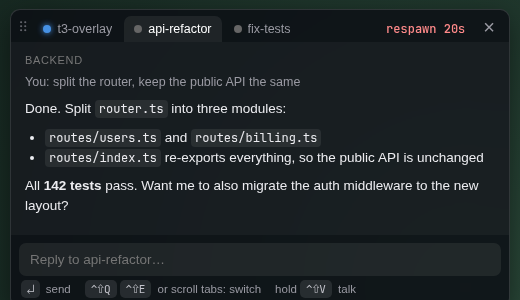
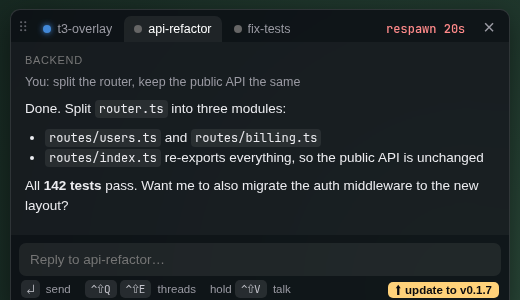
Update from the inbox: version + one-click install mid-game
The inbox footer shows the running version. Clicking it checks and
installs right away (no waiting for the inbox to close); once a newer
version is downloaded it turns into an 'update to vX' button. The tray
menu gets 'Update now', and a pill shows while it installs.

Changed region(s): [[0.7385, 0.93, 0.9846, 1.0], [0.3077, 0.93, 0.6769, 0.99]]

diff --git a/src/components/UpdateControl.tsx b/src/components/UpdateControl.tsx
@@ -1,0 +1,39 @@
+import { native, type UpdateStatus } from "../lib/native";
+
+/** Version + one-click update, in the inbox footer, so updating mid-game needs no Settings. */
+export function UpdateControl({ version, status }: { version: string | null; status: UpdateStatus }) {
+  const current = version ? `v${version}` : "";
+  switch (status.phase) {
+    case "checking":
+      return <span className="update">checking for updates…</span>;
+    case "downloading":
+      return <span className="update">downloading v{status.version}…</span>;
+    case "installing":
+      return <span className="update busy">updating to v{status.version}…</span>;
+    case "ready":
+      return (
+        <button className="update-btn ready" onClick={() => native.updateInstallNow()} title="The overlay restarts in a few seconds">
+          ⬆ update to v{status.version}
+        </button>
+      );
+    case "error":
+      return (
+        <button className="update-btn" onClick={() => native.updateInstallNow()} title={status.message}>
+          {current} · update failed, retry
+        </button>
+      );
+    default:
+      return (
+        <button className="update-btn" onClick={() => native.updateInstallNow()} title="Check for an update and install it right away">
+          {current}
+          {status.phase === "upToDate" ? " · latest ✓" : " · update"}
+        </button>
+      );
+  }
+}
+
+/** Small pill outside the inbox while an update downloads or installs. */
+export function UpdatePill({ status }: { status: UpdateStatus }) {
+  if (status.phase === "installing") return <div className="update-pill glass">Updating T3 Overlay to v{status.version}…</div>;
+  return null;
+}

diff --git a/src/components/Inbox.tsx b/src/components/Inbox.tsx
@@ -3,6 +3,8 @@ import Markdown from "react-markdown";
 import { isWorking } from "../lib/t3";
 import { useTicker, type Game } from "../lib/useGame";
 import type { ThreadView } from "../lib/useT3";
+import type { UpdateStatus } from "../lib/native";
+import { UpdateControl } from "./UpdateControl";
 
 interface Props {
   threads: ThreadView[];
@@ -17,6 +19,7 @@ interface Props {
   inputRef: RefObject<HTMLTextAreaElement | null>;
   voiceHotkey: string | null;
   navHotkeys: [string, string] | null;
+  update: { version: string | null; status: UpdateStatus };
   onSelect: (threadId: string) => void;
   onCycle: (step: number) => void;
   onDraft: (text: string) => void;
@@ -228,9 +231,9 @@ export function Inbox(props: Props) {
           <span className="key">↵</span> {props.sending ? "sending…" : "send"}
         </span>
         {props.navHotkeys && threads.length > 1 && (
-          <span>
+          <span title="Scrolling over the tabs works too">
             <span className="key">{shortKey(props.navHotkeys[0])}</span>
-            <span className="key">{shortKey(props.navHotkeys[1])}</span> or scroll tabs: switch
+            <span className="key">{shortKey(props.navHotkeys[1])}</span> threads
           </span>
         )}
         {props.voiceHotkey && (
@@ -238,6 +241,7 @@ export function Inbox(props: Props) {
             hold <span className="key">{shortKey(props.voiceHotkey)}</span> talk
           </span>
         )}
+        <UpdateControl version={props.update.version} status={props.update.status} />
       </div>
       {props.sendError && <div className="send-error">{props.sendError}</div>}
       {game.dead && (

diff --git a/src/components/Overlay.tsx b/src/components/Overlay.tsx
@@ -3,6 +3,8 @@ import { errorMessage, native, on, type Config, type VoiceEvent } from "../lib/n
 import { useGame } from "../lib/useGame";
 import { useHitRegions } from "../lib/useHitRegions";
 import { useT3 } from "../lib/useT3";
+import { useUpdate } from "../lib/useUpdate";
+import { UpdatePill } from "./UpdateControl";
 import { Inbox } from "./Inbox";
 import { Notices, type NoticeView } from "./Notices";
 import { Ticker } from "./Ticker";
@@ -16,6 +18,7 @@ export function Overlay() {
   }, []);
 
   const game = useGame();
+  const update = useUpdate();
   const t3 = useT3(config?.pollSeconds ?? 4, config?.recentHours ?? 12);
 
   const [pinned, setPinned] = useState(false);
@@ -241,6 +244,7 @@ export function Overlay() {
           focused={focused}
           inputRef={inputRef}
           voiceHotkey={config?.voiceEnabled ? config.hotkeyVoice : null}
+          update={update}
           navHotkeys={config && config.hotkeyPrev && config.hotkeyNext ? [config.hotkeyPrev, config.hotkeyNext] : null}
           onSelect={setSelectedId}
           onCycle={cycle}
@@ -251,6 +255,7 @@ export function Overlay() {
         />
       )}
       {voice && <VoiceHud voice={voice} />}
+      {!visible && <UpdatePill status={update.status} />}
     </div>
   );
 }

diff --git a/src/styles.css b/src/styles.css
@@ -373,6 +373,50 @@ html[data-view="overlay"] body {
   font-size: 11.5px;
   color: var(--muted);
 }
+.hints > .update,
+.hints > .update-btn {
+  margin-left: auto;
+}
+.update {
+  font-size: 11.5px;
+  color: var(--muted);
+}
+.update.busy {
+  color: #ffd27a;
+}
+.update-btn {
+  border: 0;
+  background: transparent;
+  color: var(--muted);
+  font: inherit;
+  font-size: 11.5px;
+  padding: 0;
+  cursor: pointer;
+}
+.update-btn:hover {
+  color: #fff;
+  text-decoration: underline;
+}
+.update-btn.ready {
+  color: #0b0b0f;
+  background: #ffd27a;
+  border-radius: 5px;
+  padding: 1px 7px;
+  font-weight: 600;
+}
+.update-btn.ready:hover {
+  text-decoration: none;
+  filter: brightness(1.08);
+}
+.update-pill {
+  position: absolute;
+  left: 50%;
+  top: 12px;
+  transform: translateX(-50%);
+  padding: 6px 12px;
+  font-size: 12.5px;
+  color: #ffd27a;
+}
 .hints .key {
   margin-right: 3px;
 }

diff --git a/src/lib/useUpdate.ts b/src/lib/useUpdate.ts
@@ -1,0 +1,15 @@
+import { getVersion } from "@tauri-apps/api/app";
+import { useEffect, useState } from "react";
+import { native, on, type UpdateStatus } from "./native";
+
+/** The running version and the updater's progress. */
+export function useUpdate() {
+  const [version, setVersion] = useState<string | null>(null);
+  const [status, setStatus] = useState<UpdateStatus>({ phase: "idle" });
+  useEffect(() => {
+    getVersion().then(setVersion).catch(() => {});
+    native.updateStatus().then(setStatus).catch(() => {});
+    return on<UpdateStatus>("update://status", setStatus);
+  }, []);
+  return { version, status };
+}

diff --git a/src/dev/mock.ts b/src/dev/mock.ts
@@ -53,7 +53,7 @@ export async function installMock(scenario: string) {
         case "plugin:app|version":
           return "0.1.12";
         case "update_status":
-          return { phase: "upToDate" };
+          return scenario === "dead" ? { phase: "ready", version: "0.1.7" } : { phase: "upToDate" };
         case "take_update_notice":
           return scenario === "alive" ? { version: "0.1.12", notes: "Keep the overlay above the game" } : null;
         default:

diff --git a/src/lib/native.ts b/src/lib/native.ts
@@ -77,6 +77,7 @@ export const native = {
   setOverlayBusy: (busy: boolean) => invoke<void>("set_overlay_busy", { busy }),
   updateStatus: () => invoke<UpdateStatus>("update_status"),
   updateCheck: () => invoke<void>("update_check"),
+  updateInstallNow: () => invoke<void>("update_install_now"),
   takeUpdateNotice: () => invoke<UpdateNotice | null>("take_update_notice"),
 };
 

diff --git a/src-tauri/src/update.rs b/src-tauri/src/update.rs
@@ -46,6 +46,8 @@ pub struct Updates {
     pub overlay_busy: AtomicBool,
     /// "Check now" was pressed: install even if the Settings window is open.
     manual: AtomicBool,
+    /// "Install now" was pressed in the inbox: don't wait for the overlay to be idle.
+    force: AtomicBool,
     wake: Notify,
     /// The update we just restarted from, if any.
     installed: Mutex<Option<Installed>>,
@@ -63,6 +65,7 @@ impl Updates {
             auto: AtomicBool::new(auto),
             overlay_busy: AtomicBool::new(false),
             manual: AtomicBool::new(false),
+            force: AtomicBool::new(false),
             wake: Notify::new(),
             installed: Mutex::new(installed),
         }
@@ -75,6 +78,12 @@ impl Updates {
     pub fn check_now(&self) {
         self.manual.store(true, Ordering::SeqCst);
         self.wake.notify_one();
+    }
+
+    /// Check (if needed) and install right away, even with the inbox open.
+    pub fn install_now(&self) {
+        self.force.store(true, Ordering::SeqCst);
+        self.check_now();
     }
 
     pub fn take_installed(&self) -> Option<Installed> {
@@ -106,6 +115,7 @@ pub fn spawn(app: AppHandle) {
                     set(&app, Status::Error { message: format!("{e:#}") });
                 }
                 updates.manual.store(false, Ordering::SeqCst);
+                updates.force.store(false, Ordering::SeqCst);
             }
             tokio::select! {
                 _ = tokio::time::sleep(CHECK_EVERY) => {}
@@ -144,6 +154,9 @@ async fn wait_until_idle(app: &AppHandle) {
     let updates = app.state::<Updates>();
     let mut idle_since = None;
     loop {
+        if updates.force.load(Ordering::SeqCst) {
+            return;
+        }
         let settings_open = app
             .get_webview_window("settings")
             .and_then(|w| w.is_visible().ok())

diff --git a/src-tauri/src/lib.rs b/src-tauri/src/lib.rs
@@ -198,6 +198,11 @@ fn update_check(updates: State<'_, update::Updates>) {
     updates.check_now();
 }
 
+#[tauri::command]
+fn update_install_now(updates: State<'_, update::Updates>) {
+    updates.install_now();
+}
+
 /// The version we just updated to (once per update), for the "updated" notice.
 #[tauri::command]
 fn take_update_notice(updates: State<'_, update::Updates>) -> Option<update::Installed> {
@@ -332,8 +337,9 @@ fn show_settings(app: &AppHandle) -> tauri::Result<()> {
 fn build_tray(app: &AppHandle) -> tauri::Result<()> {
     let inbox = MenuItem::with_id(app, "inbox", "Open inbox", true, None::<&str>)?;
     let settings = MenuItem::with_id(app, "settings", "Settings…", true, None::<&str>)?;
+    let update = MenuItem::with_id(app, "update", "Update now", true, None::<&str>)?;
     let quit = MenuItem::with_id(app, "quit", "Quit T3 Overlay", true, None::<&str>)?;
-    let menu = Menu::with_items(app, &[&inbox, &settings, &quit])?;
+    let menu = Menu::with_items(app, &[&inbox, &settings, &update, &quit])?;
     let mut builder = TrayIconBuilder::with_id("main")
         .tooltip("T3 Overlay")
         .menu(&menu)
@@ -344,6 +350,7 @@ fn build_tray(app: &AppHandle) -> tauri::Result<()> {
             "settings" => {
                 let _ = show_settings(app);
             }
+            "update" => app.state::<update::Updates>().install_now(),
             "quit" => app.exit(0),
             _ => {}
         });
@@ -418,6 +425,7 @@ pub fn run() {
             set_nav_hotkeys,
             update_status,
             update_check,
+            update_install_now,
             take_update_notice,
         ])
         .run(tauri::generate_context!())

diff --git a/README.md b/README.md
@@ -54,7 +54,7 @@ All hotkeys can be changed in Settings. After you send a message, focus goes str
 
 Every push to `main` publishes a signed release. The overlay checks for a new one every 5 minutes, downloads it in the background, and installs it silently as soon as you're not using it: inbox closed, not dictating. That works mid-game too. The overlay disappears for a few seconds, comes back on its own without taking focus from League, and briefly shows what changed.
 
-Turn this off, or check right away, under **Settings → Updates**. Updates are signed, and the overlay refuses any installer that isn't signed with the project's key.
+To update right now, even mid-game: open the inbox and click the version in its bottom-right corner. It shows **⬆ update to v…** once a new version is downloaded. **Update now** in the tray menu does the same. To turn automatic updates off, use **Settings → Updates**. Updates are signed, and the overlay refuses any installer that isn't signed with the project's key.
 
 ## How it works
 
